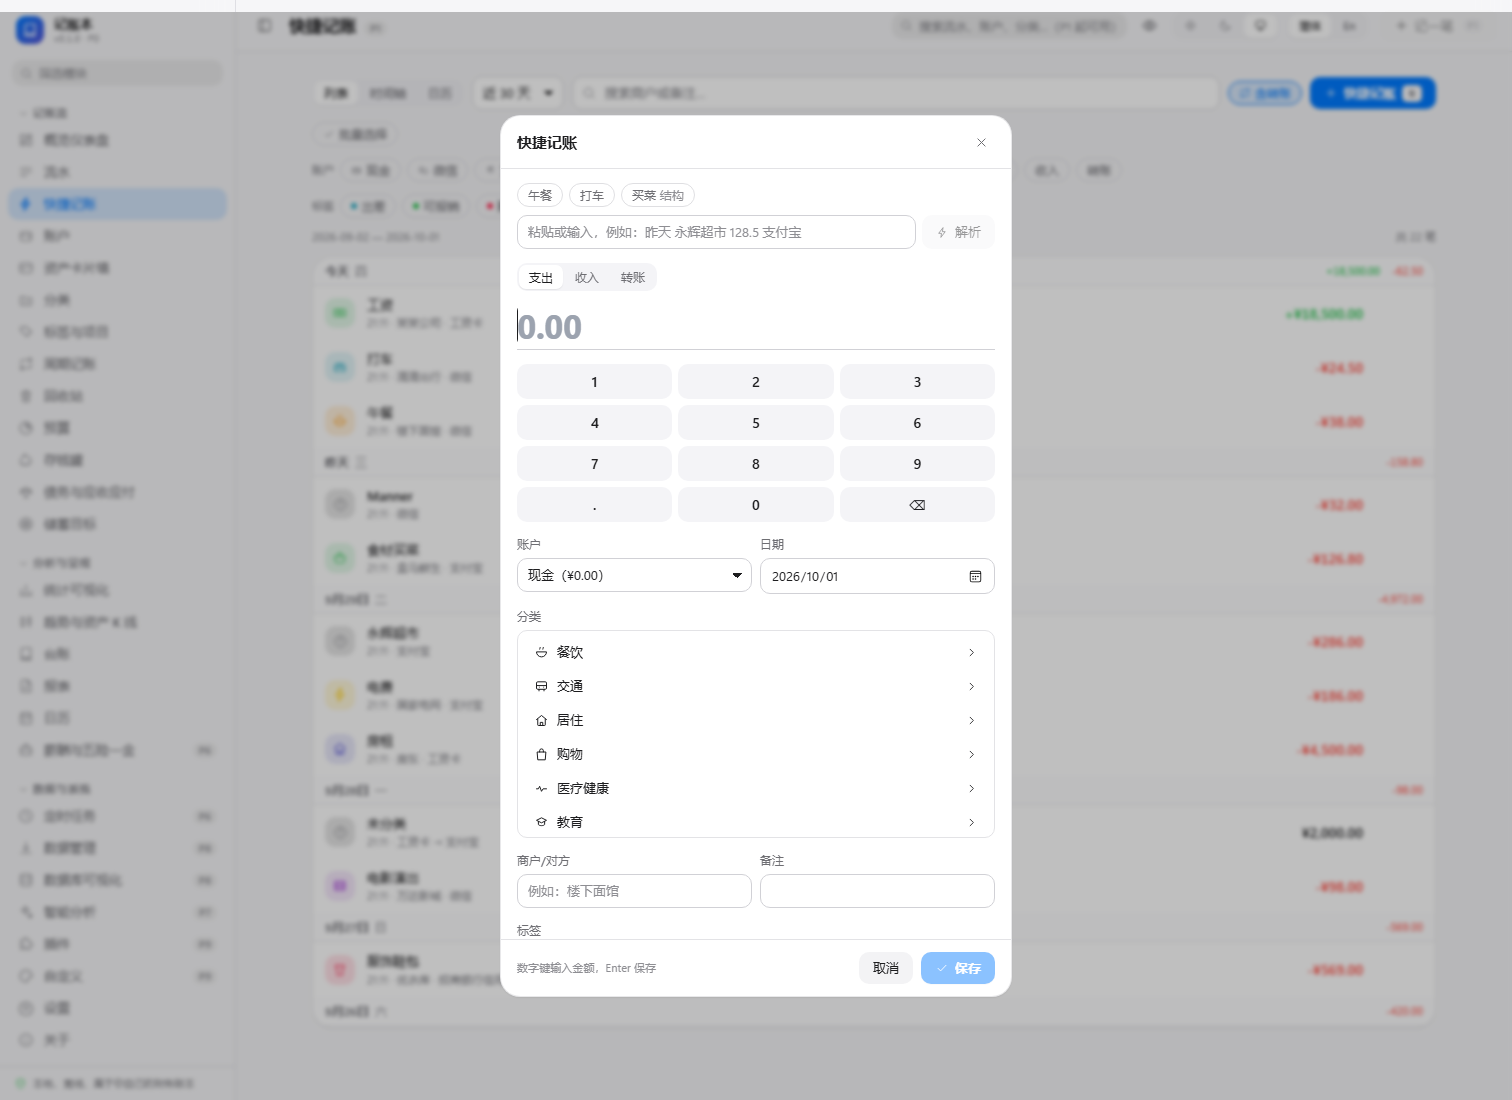
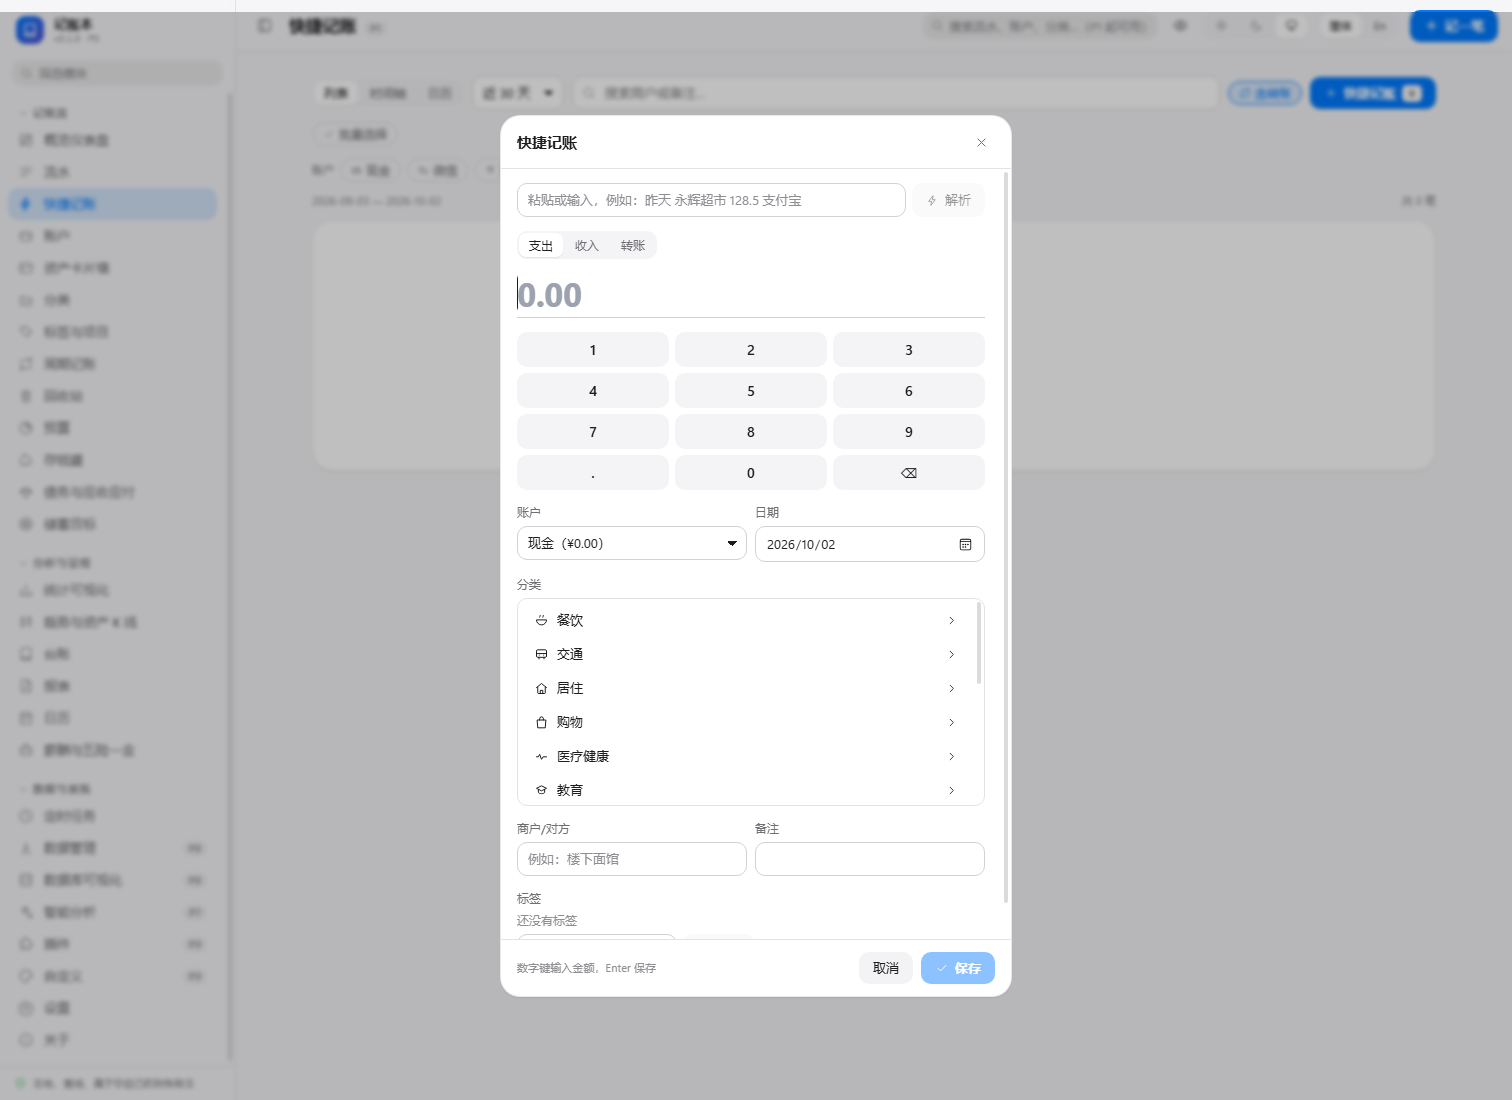
fix(web): 右上角「记一笔」不可用 —— 阶段判断会自己坏掉 + 按钮没有行为
两个缺陷叠加，所以它既点不动、也看起来不该点。

一、可用性判断写成了相等比较
--------------------------
    const quickAddAvailable = quickAddPhase === IMPLEMENTED_PHASE

快捷记账属于 P1，而 `IMPLEMENTED_PHASE` 随项目推进变成了 `'P6'`，
于是 `'P1' === 'P6'` 为假，按钮被渲染成「禁用 + P1 徽标」——
**一个早已完成的功能，在阶段推进之后自己变成了"未实现"。**

相等判断只在"最新阶段恰好就是这个模块的阶段"时才对，而那只是巧合。
正确语义是"这个模块的阶段**已包含在**已完成阶段里"，
也就是 `navigation.ts` 里的 `isImplemented()` —— 侧边栏一直用的是它，
所以侧边栏里「快捷记账」是能点的，工具栏里不能，同一件事两处结论不同。

二、启用分支根本没有 onClick
--------------------------
即使可用性判断修好了，点下去也什么都不会发生 ——
这个按钮此前**只有外观、没有行为**。已接上 `useNavigate('/quick-add')`，
与全局快捷键（`AppShell.tsx`）走同一条路由，由流水页据路由打开对话框。

顺带清掉一处同类隐患
====================
`routes.tsx` 里还导出过第二份 `IMPLEMENTED_PHASES`（停在 `['P0'..'P3']`，
而当时已做到 P6）。没有任何地方导入它，**但它是 export 的、注释还指向它**，
看起来像权威 —— 下一个人从 `routes` 里 import 就会拿到一份过期四期的清单，
同样的症状会再出现一次。已删除，并在文件头写明"阶段清单只有一份真相"。

验证
====
`tsc --noEmit` 干净，`vite build` 通过，`pytest` 全绿（209 项）。

截图两张并**人工核对**：
* `docs/screenshots/p1-topbar-quickadd.png` —— 右上角是**醒目的蓝色主按钮**，
  不再是禁用状态加 P1 徽标；
* `docs/screenshots/p1-quick-add.png` —— `/quick-add` 真的打开了快捷记账对话框
  （解析框、支出/收入/转账、数字键盘、账户/日期/分类/商户/备注/标签）。

新增 `.smoke-test/verify-quickadd.ps1` 固化这两张图的采集，
沿用 capture-p6 里踩过坑的那组参数（`--headless=old`、不给 Edge 加重定向、
变量不叫 `$args`）。

diff --git a/web/src/app/TopBar.tsx b/web/src/app/TopBar.tsx
@@ -12,12 +12,13 @@
  */
 
 import { motion } from 'framer-motion'
+import { useNavigate } from 'react-router-dom'
 
 import { Icon } from '@/components/Icon'
 import { IconButton, Segmented } from '@/components/ui'
 import { useI18n, LANGUAGES, LANGUAGE_LABELS } from '@/i18n'
 import type { LanguageCode, ThemePreference } from '@/lib/boot'
-import { ALL_NAV_ITEMS, IMPLEMENTED_PHASE } from './navigation'
+import { ALL_NAV_ITEMS, isImplemented } from './navigation'
 import { usePreferences } from './preferences'
 
 interface TopBarProps {
@@ -30,6 +31,7 @@ interface TopBarProps {
 export function TopBar({ title, phase, collapsed, onToggleCollapse }: TopBarProps) {
   const { t, language } = useI18n()
   const { preferences, update, saving, syncError } = usePreferences()
+  const navigate = useNavigate()
 
   const themeOptions: { value: ThemePreference; label: string; icon: 'sun' | 'moon' | 'monitor'; title: string }[] = [
     { value: 'light', label: '', icon: 'sun', title: t('topbar.themeLight') },
@@ -39,9 +41,18 @@ export function TopBar({ title, phase, collapsed, onToggleCollapse }: TopBarProp
 
   // 快捷记账的可用性由导航清单驱动：模块一旦在本阶段实现，按钮自动变为可用，
   // 不需要在工具栏里硬编码阶段号（避免两处维护导致不一致）。
+  //
+  // **这里曾经写成 `quickAddPhase === IMPLEMENTED_PHASE`，那是个会自己坏掉的判断。**
+  // 快捷记账属于 P1，而 `IMPLEMENTED_PHASE` 随项目推进变成了 'P6'，
+  // 于是 `'P1' === 'P6'` 为假，按钮被渲染成「禁用 + P1 徽标」——
+  // 一个早已完成的功能，在阶段推进之后自己变成了"未实现"。
+  //
+  // 正确的判断是"这个模块的阶段**已包含在**已完成阶段里"，
+  // 也就是 `isImplemented()`（侧边栏一直用的是它）。
+  // 相等判断只在"最新阶段恰好就是这个模块的阶段"时才对，而那只是巧合。
   const quickAddItem = ALL_NAV_ITEMS.find((item) => item.id === 'quickAdd')
   const quickAddPhase = quickAddItem?.phase ?? 'P1'
-  const quickAddAvailable = quickAddPhase === IMPLEMENTED_PHASE
+  const quickAddAvailable = quickAddItem ? isImplemented(quickAddItem) : false
 
   return (
     <header className="ab-material relative z-10 flex h-[52px] shrink-0 items-center gap-2 border-b border-separator/60 px-3.5">
@@ -97,9 +108,19 @@ export function TopBar({ title, phase, collapsed, onToggleCollapse }: TopBarProp
 
       {/* ---- 主操作：记一笔 ------------------------------------------------
           尚未实现的阶段**不**把它画成一个醒目的可用按钮 —— 那会误导用户。
-          这里降级为次级按钮 + 阶段徽标，并把原因写进 tooltip。 */}
+          这里降级为次级按钮 + 阶段徽标，并把原因写进 tooltip。
+
+          可用时**必须挂 onClick**：这个按钮此前只有外观没有行为，
+          即使可用性判断正确，点下去也什么都不会发生。
+          与全局快捷键走同一条路由（`/quick-add`），
+          由流水页据路由打开快捷记账对话框。 */}
       {quickAddAvailable ? (
-        <button type="button" className="ab-btn-primary ml-1" title={t('topbar.quickAdd')}>
+        <button
+          type="button"
+          className="ab-btn-primary ml-1"
+          title={t('topbar.quickAdd')}
+          onClick={() => navigate('/quick-add')}
+        >
           <Icon name="plus" size={15} strokeWidth={2.2} />
           {t('topbar.quickAdd')}
         </button>

diff --git a/web/src/routes.tsx b/web/src/routes.tsx
@@ -8,7 +8,13 @@
  *   * 已在对应阶段实现的模块 → 真实页面组件；
  *   * 其余模块 → 统一占位页（自动带模块名、阶段与规划说明）。
  * 当某个模块完成时，只需在此登记它的路径，
- * 导航徽标由 `IMPLEMENTED_PHASES` 自动同步 —— 不要再手工改徽标。
+ * 导航徽标由 `app/navigation.ts` 的 `IMPLEMENTED_PHASES` 自动同步 —— 不要再手工改徽标。
+ *
+ * **阶段清单只有一份真相，在 `app/navigation.ts`。**
+ * 这里曾经又导出一份 `IMPLEMENTED_PHASES`（停在 P3，而当时已做到 P6），
+ * 没有任何地方导入它 —— 但它是 export 的、注释还指向它，看起来像权威。
+ * 下一个人从 `routes` 里 import 它就会拿到一份过期四期的清单，
+ * 于是"某些已完成的功能莫名其妙变成不可用"。重复的真相比没有真相更危险。
  */
 
 import type { ReactNode } from 'react'
@@ -67,14 +73,6 @@ const IMPLEMENTED_ROUTES: Record<string, ReactNode> = {
   '/settings': <SettingsPage />,
   '/about': <AboutPage />,
 }
-
-/**
- * 已完成的阶段。
- *
- * 导航徽标据此判断"这一项能不能点" —— 徽标与页面实现共用同一份事实，
- * 因此不可能出现"标着已实现、点进去是占位页"。
- */
-export const IMPLEMENTED_PHASES = new Set(['P0', 'P1', 'P2', 'P3'])
 
 /** 404 页面：保持与占位页一致的视觉语言 */
 function NotFoundPage() {
